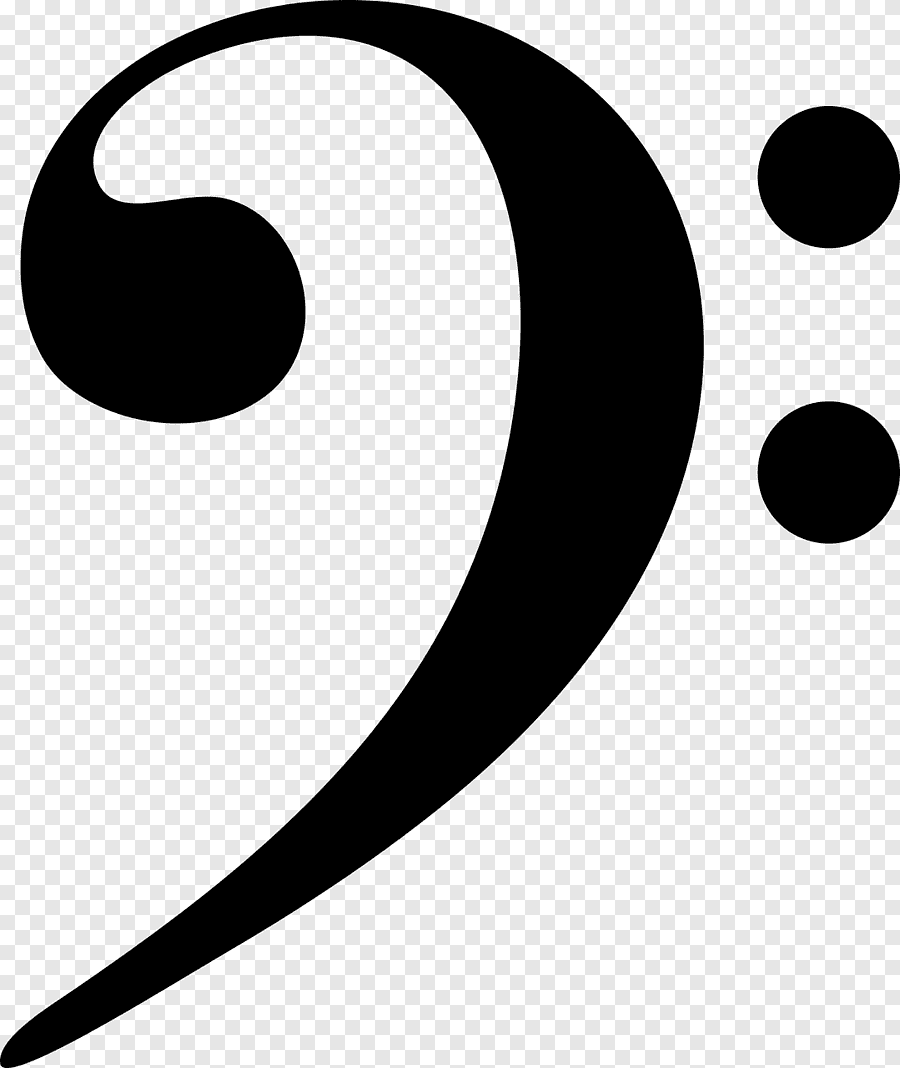
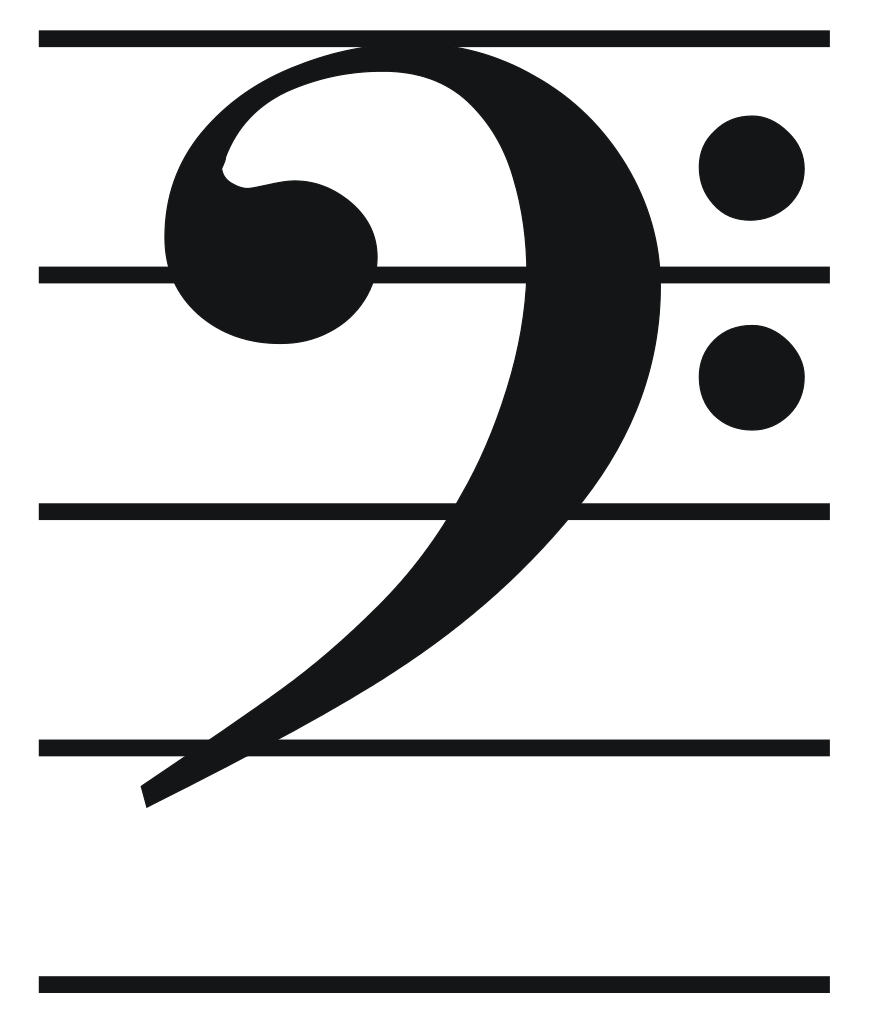
Aggiunte le chiavi di violino e di basso.

diff --git a/index_andrea.html b/index_andrea.html
@@ -6,6 +6,11 @@
     <link rel="stylesheet" href="stylesheet_andrea.css">
 </head>
 <body>
+<!--TODO:RICORDA LE IMMAGINI-->
+<img src="images/Chiave_di_violino.png" width="25px" height="70px"
+     style="position: relative; top: -175px; left: 180px;">
+<img src="images/Chiave_di_basso.png" width="35px" height="60px"
+     style="position: relative; top: -73px; left: 150px;">
 <div id="box">
     <div class="Text">CANTUS FIRMUS</div>
     <div id="scoreCF" class="selectedScore">
@@ -18,10 +23,6 @@
         <div class="noteText"></div>
         <div class="noteText"></div>
     </div>
-    <!--<img src="images/Chiave_di_violino.png" width="15px" height="30px">
-         style="position: relative; left: 30px; top: -150px;">
-    <img src="images/Chiave_di_basso.png" width="15px" height="30px">
-         style="position: relative;">-->
     <canvas id="canvas_score"
             width="1015" height="200"
             style="position: relative; left: 80px; top: 10px;">
